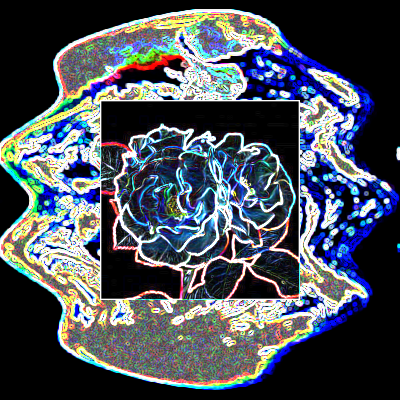
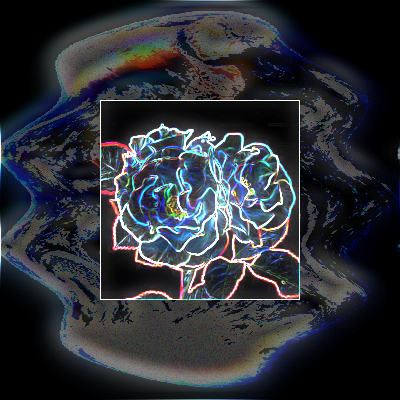
fixed gaussian blur

diff --git a/src/image.cpp b/src/image.cpp
@@ -3,7 +3,7 @@
  * 
  * @file image.cpp
  * @author Keith Mburu
- * @version 2023-02-02
+ * @version 2023-02-09
  */
 
 #include "image.h"
@@ -446,13 +446,12 @@ Image Image::fill(const Pixel& a, const Pixel& b) {
    return result;
 }
 
-Image Image::blur() const {
+Image Image::blur(int iters) const {
    std::cout << "Blurring" << std::endl;
    Image result(*this);
-   int ITERS = 1;
    int KERNEL_SIZE = 3;
    int offset = KERNEL_SIZE / 2;
-   for (int iter = 0; iter < ITERS; iter++) {
+   for (int iter = 0; iter < iters; iter++) {
       for (int i = 0; i < this->_height; i++) {
          for (int j = 0; j < this->_width; j++) {
             int sumNeighborsRed, sumNeighborsGreen, sumNeighborsBlue;
@@ -483,11 +482,12 @@ Image Image::blur() const {
 Image Image::blurGaussian() const {
    std::cout << "Blurring with Gaussian blur" << std::endl;
    Image result(*this);
+   int KERNEL_SIZE = 17;
    float STD_DEV = 10.0;
-   int KERNEL_SIZE = 11;
    float kernel[KERNEL_SIZE][KERNEL_SIZE];
-   float kernelSum = 0.0;
    int offset = KERNEL_SIZE / 2;
+   float kernelSum = 0.0;
+   // creating Gaussian kernel
    for (int k = -offset; k <= offset; k++) {
      for (int l = -offset; l <= offset; l++) {
          float exponent = -(k * k + l * l) / (2 * STD_DEV * STD_DEV);
@@ -495,27 +495,26 @@ Image Image::blurGaussian() const {
          kernelSum += kernel[k + offset][l + offset];
      }
    }
+   // normalizing
    for (int i = 0; i < KERNEL_SIZE; i++) {
       for (int j = 0; j < KERNEL_SIZE; j++) {
          kernel[i][j] /= kernelSum;
-         // std::cout << kernel[i][j] << " ";
       }
-      // std::cout << std::endl;
    }
 
-   int ITERS = 1;
+   int ITERS = 3;
    for (int iter = 0; iter < ITERS; iter++) {
-      for (int i = 0; i < this->_height; i++) {
-         for (int j = 0; j < this->_width; j++) {
+      for (int i = 0; i < result.height(); i++) {
+         for (int j = 0; j < result.width(); j++) {
             float avgNeighborsRed, avgNeighborsGreen, avgNeighborsBlue;
             avgNeighborsRed = avgNeighborsGreen = avgNeighborsBlue = 0;
             for (int k = i - offset; k <= i + offset; k++) {
                for (int l = j - offset; l <= j + offset; l++) {
                   Pixel px;
-                  if (0 <= k && k < this->_height && 0 <= l && l < this->_width) {
-                     px = this->get(k, l);
+                  if (0 <= k && k < result.height() && 0 <= l && l < result.width()) {
+                     px = result.get(k, l);
                   } else {
-                     px = this->get(i, j);
+                     px = result.get(i, j);
                   }
                   avgNeighborsRed += px.r * kernel[k - (i - offset)][l - (j - offset)];
                   avgNeighborsGreen += px.g * kernel[k - (i - offset)][l - (j - offset)];
@@ -531,14 +530,36 @@ Image Image::blurGaussian() const {
 
 Image Image::glow() const {
    std::cout << "Applying glow effect" << std::endl;
-   Image white(*this);
+   Image extractedWhite(*this);
+   Image white(this->_width, this->_height);
+   Image result(*this);
+   float threshold = 0.7;
    for (int idx = 0; idx < this->_width * this->_height; idx++) {
       Pixel px = this->get(idx);
-      if (px.r < 175 || px.g < 175 || px.b < 175) {
-         white.set(idx, {0, 0, 0});
+      unsigned char c = px.r * 0.3f + px.g * 0.59f + px.b * 0.11f;
+      float intensity = c / 255.0f;
+      if (intensity > threshold) { 
+         extractedWhite.set(idx, {255, 255, 255});
+      } else {
+         extractedWhite.set(idx, {0, 0, 0});
       }
+      white.set(idx, {255, 255, 255});
    }
-   return this->add(white.blur());
+   extractedWhite.save("../demo/white-extractedWhite.png");
+   Image whiteBlurred = extractedWhite.blurGaussian();
+   whiteBlurred.save("../demo/white-blur.png");
+   for (int idx = 0; idx < result.width() * result.height(); idx++) {
+      Pixel alphaPx = whiteBlurred.get(idx);
+      unsigned char c = alphaPx.r * 0.3f + alphaPx.g * 0.59f + alphaPx.b * 0.11f;
+      float alpha = c / 255.0f;
+      Pixel px1 = this->get(idx);
+      Pixel px2 = white.get(idx);
+      px1.r = px1.r * (1 - alpha) + px2.r * alpha;
+      px1.g = px1.g * (1 - alpha) + px2.g * alpha;
+      px1.b = px1.b * (1 - alpha) + px2.b * alpha;
+      result.set(idx, px1);
+   }
+   return result;
 }
 
 Image Image::border(const Pixel& c) const {

diff --git a/src/pixmap_art.cpp b/src/pixmap_art.cpp
@@ -1,7 +1,7 @@
 /**
  * @file pixmap_art.cpp
  * @author Keith Mburu
- * @version 2023-02-02
+ * @version 2023-02-09
  */
 
 #include <iostream>
@@ -45,7 +45,7 @@ int main(int argc, char** argv)
    Image springPink;
    springPink.load("../images/spring-pink.jpg");
 
-   Image art6 = springPink.resize(756, 1008).swirl().gradient("vertical", {255, 255, 255}).painterly().brighten(20);
+   Image art6 = springPink.resize(756, 1008).swirl().painterly();
    art6.save("../art/art-6.png");
 
    Image lake;

diff --git a/src/image.h b/src/image.h
@@ -4,7 +4,7 @@
  * 
  * @file image.h
  * @author Keith Mburu
- * @version 2023-02-02
+ * @version 2023-02-09
  */
 
 #ifndef AGL_IMAGE_H_
@@ -197,7 +197,7 @@ class Image {
   Image fill(const Pixel& a, const Pixel& b);
 
   // Apply simple box blur to image 
-  Image blur() const;
+  Image blur(int iters = 1) const;
 
   // Apply gaussian blur to image 
   Image blurGaussian() const;

diff --git a/src/pixmap_test.cpp b/src/pixmap_test.cpp
@@ -2,7 +2,7 @@
  * @file pixmap_test.cpp
  * @author Keith Mburu
  * @author Aline Normoyle
- * @version 2023-02-02
+ * @version 2023-02-09
  */
 
 #include <iostream>
